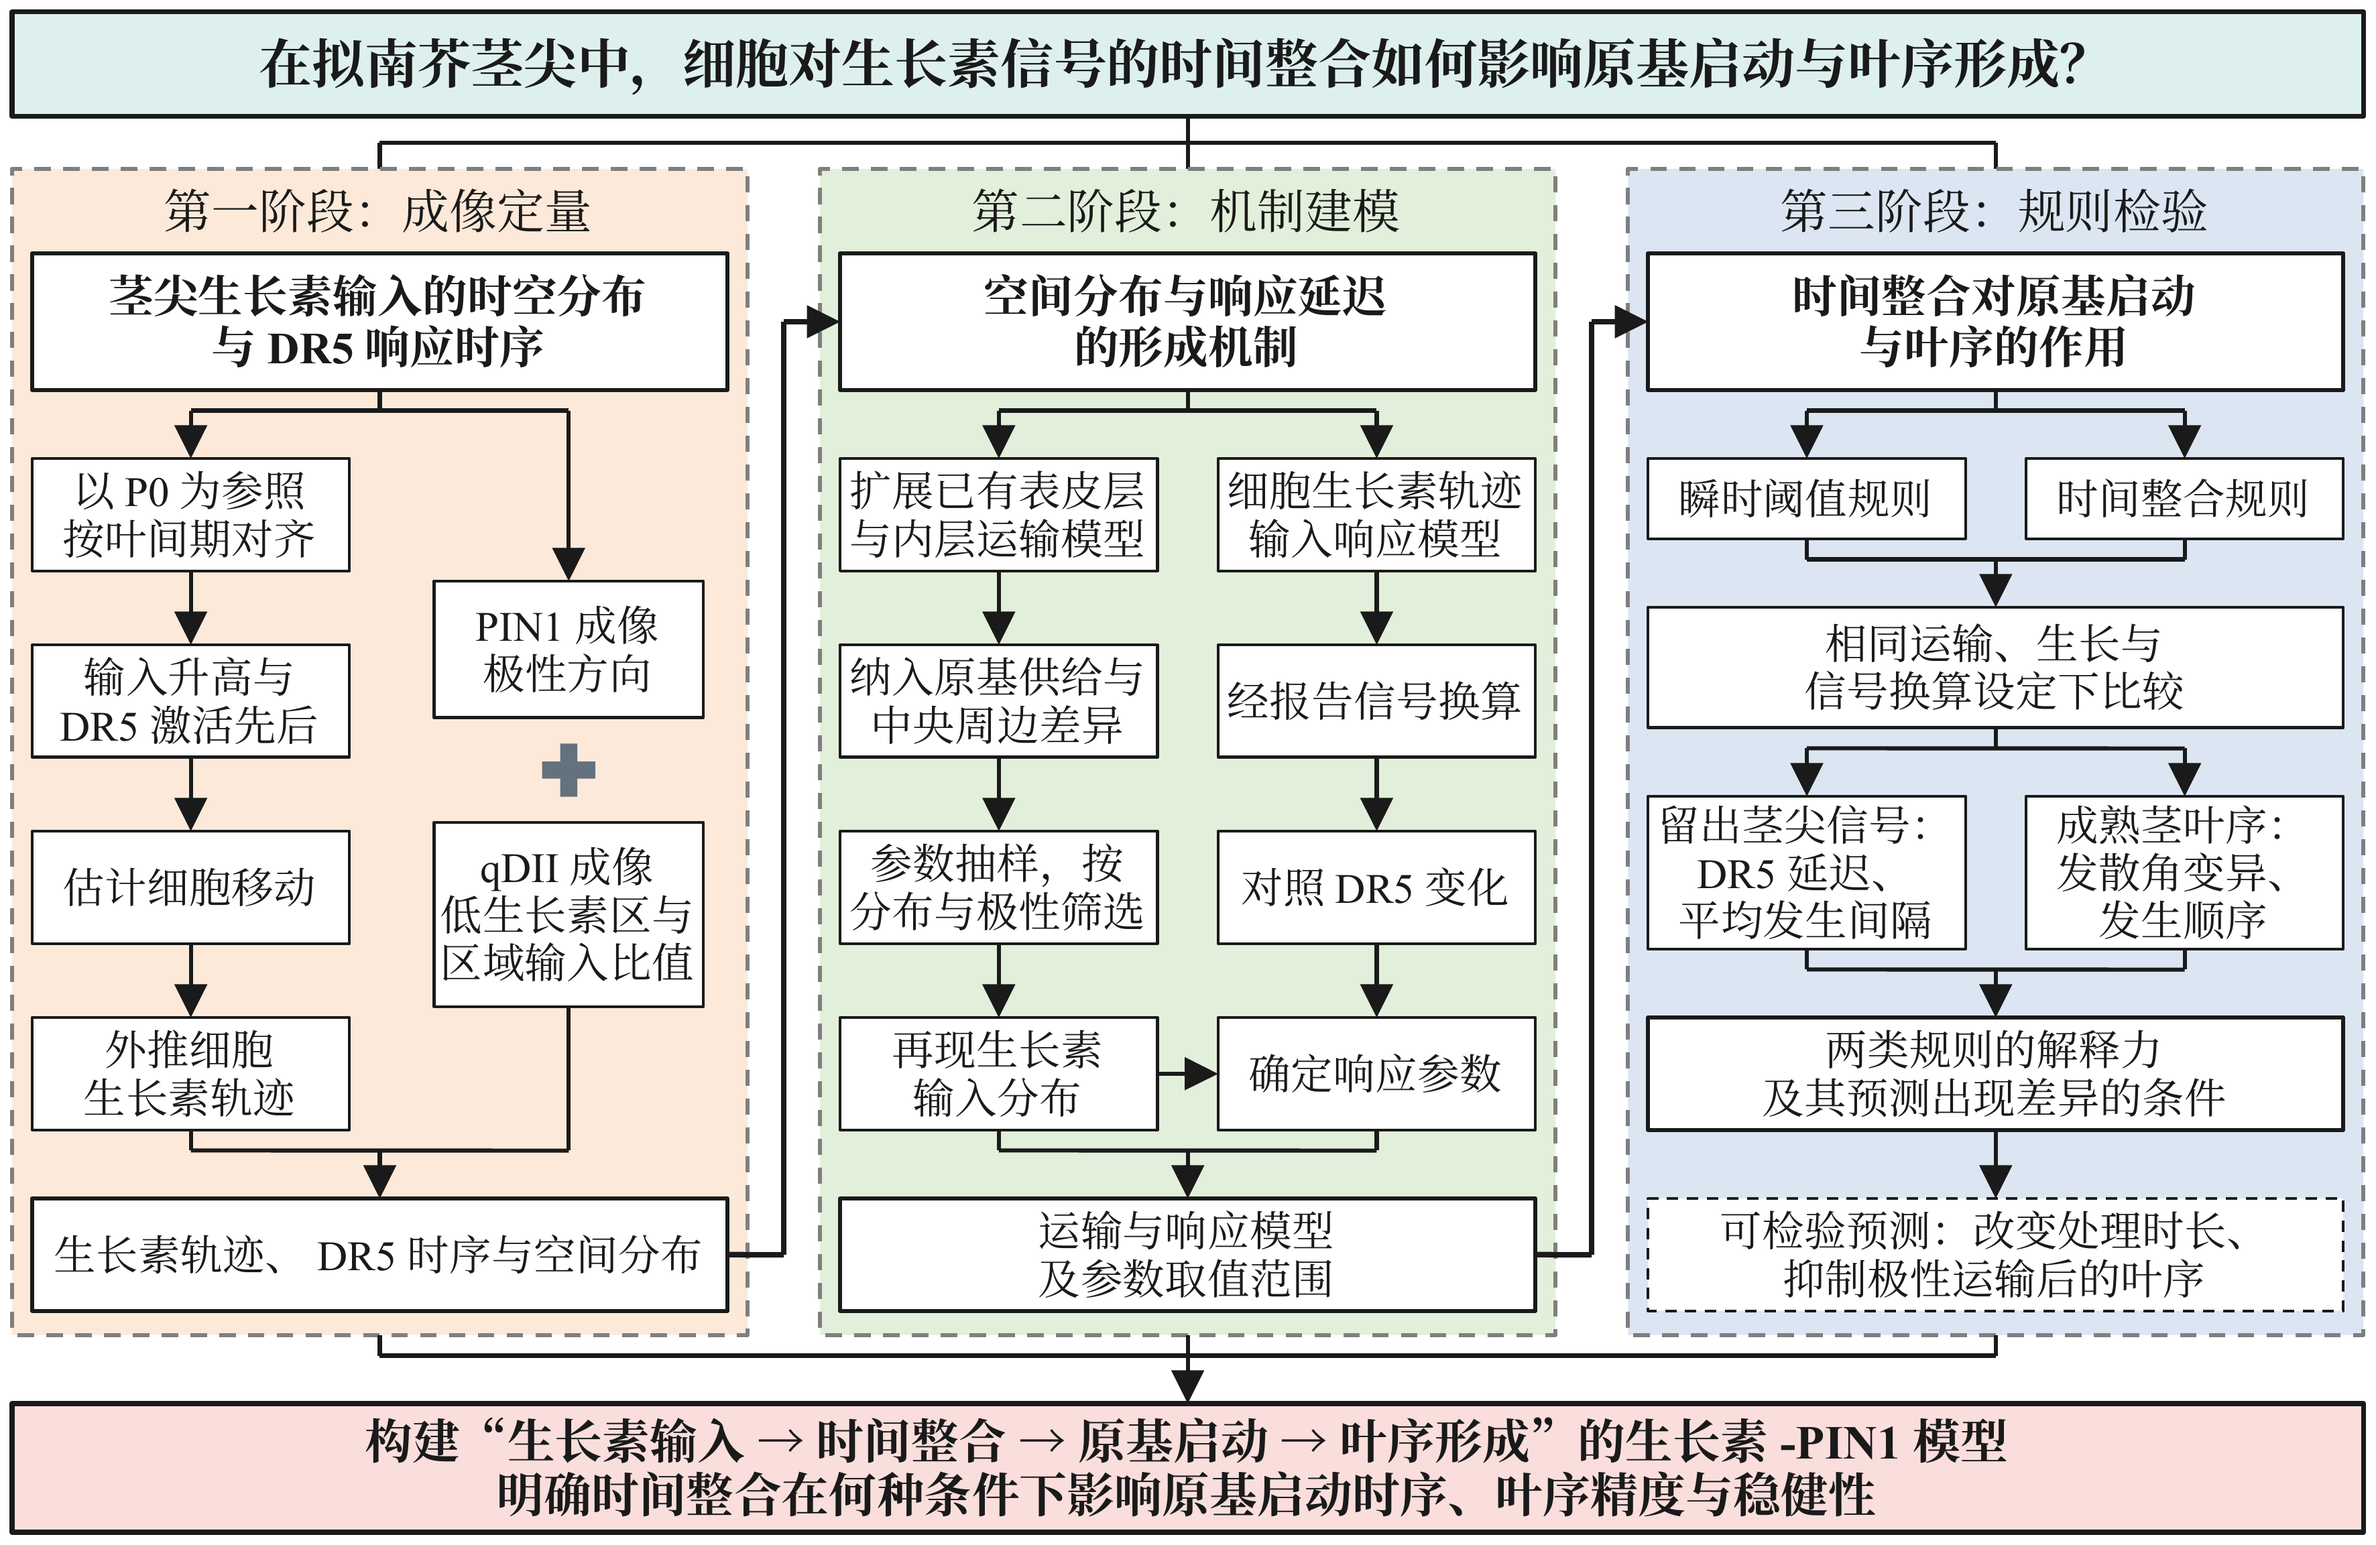
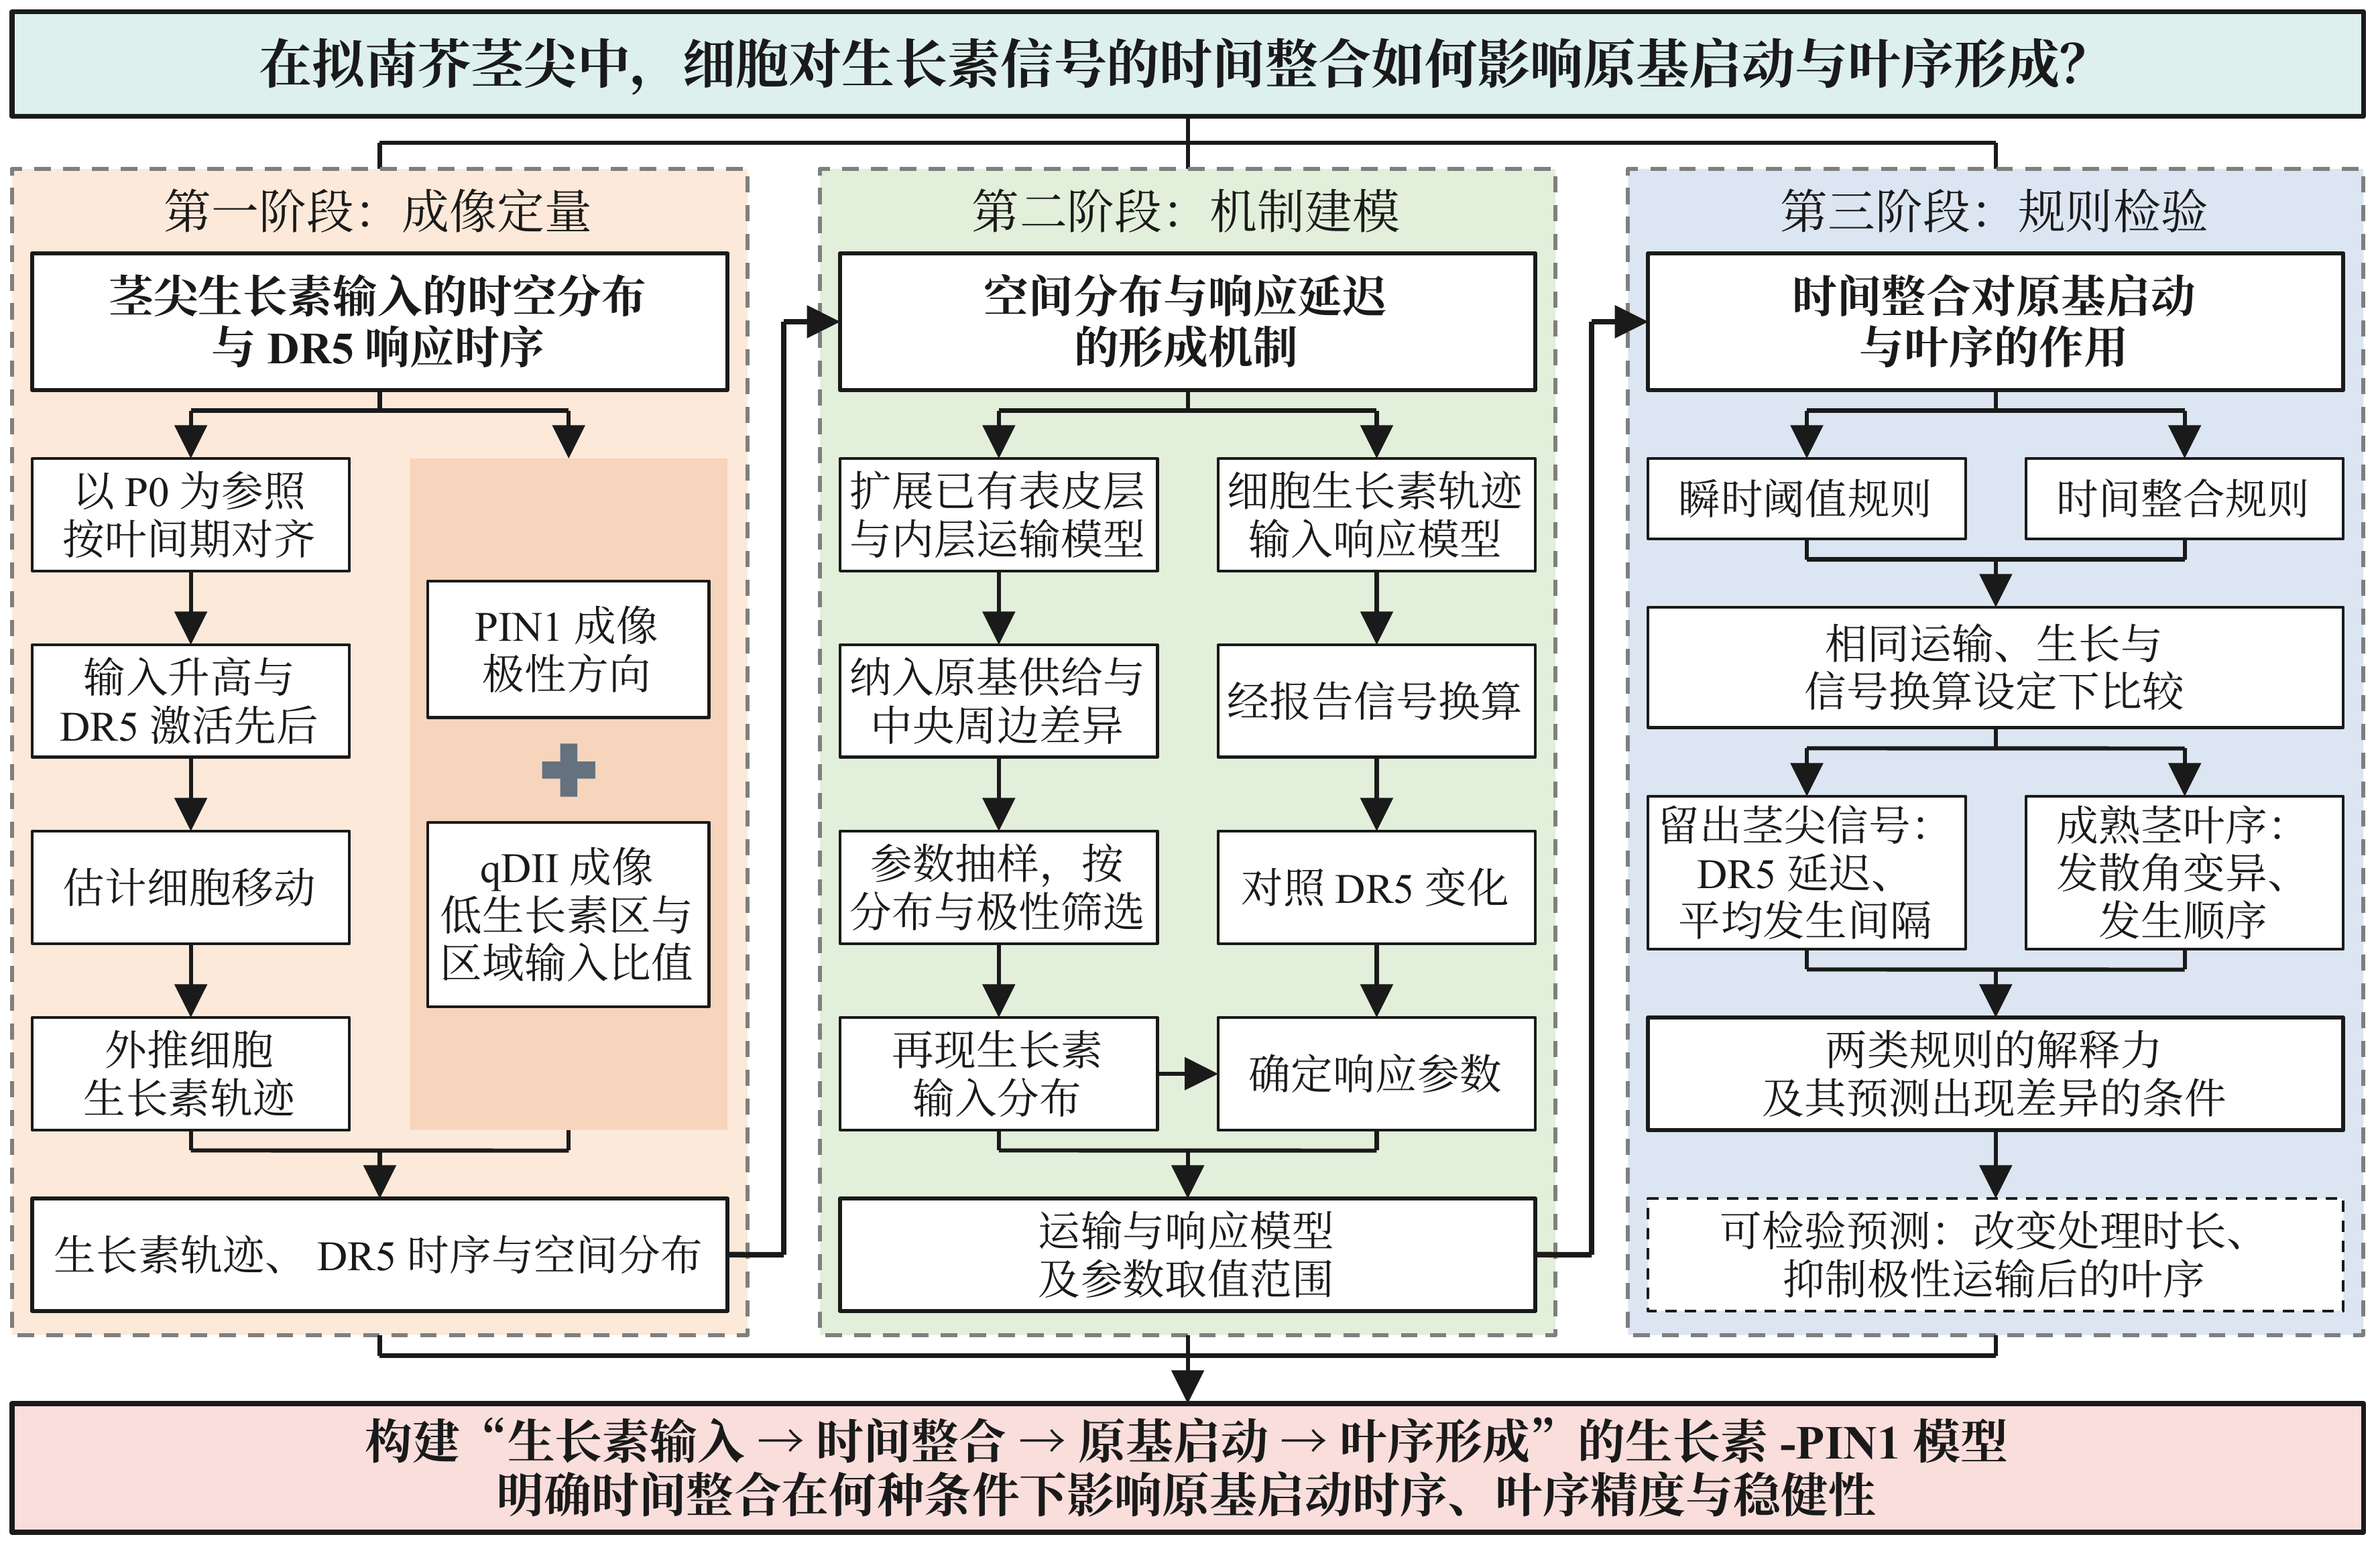
Fig. 2-1: imaging boxes on a tinted card the arrows meet
PIN1 and qDII boxes sit on a darker peach card spanning the track, so
the arrows join the card instead of the boxes.

Claude-Session: https://claude.ai/code/session_01BHCDdTyVHVBXyaT1pkArZu

Changed region(s): [[0.1552, 0.2811, 0.3104, 0.7497]]

diff --git a/figures/prior_work/ppt/roadmap.js b/figures/prior_work/ppt/roadmap.js
@@ -72,18 +72,20 @@ function frame(k, label, problem) {
 const ty = IN + HH + TG;                            // first row of track boxes (stages 1, 2)
 const AG = (OY - TG - ty - 4 * BH) / 3;             // arrow gap in a four-step track
 
-// stage 1: time course (left), two parallel imaging measurements joined by a plus (right)
+// stage 1: time course (left), two parallel imaging measurements on one card (right)
 {
   const f = frame(0, "第一阶段：成像定量", "茎尖生长素输入的时空分布\n与DR5响应时序");
   const b = chain(f.tx[0], ty, f.tw, ["以P0为参照\n按叶间期对齐", "输入升高与\nDR5激活先后", "估计细胞移动", "外推细胞\n生长素轨迹"], BH, AG);
-  const gx = f.tx[1] + 0.06, gw = f.tw - 0.12, P1 = 0.34, P2 = 0.46, PG = 0.26, gh = P1 + PG + P2;
-  const gy = ty + (b - ty - gh) / 2;                // two parallel measurements joined by a plus, centred in the column
-  split(f.cx, IN + HH, f.mids, [ty, gy], true);
+  // two parallel measurements on a darker card spanning the track; the arrows meet the card, not the boxes
+  split(f.cx, IN + HH, f.mids, ty, true);
+  box(f.tx[1], ty, f.tw, b - ty, "", { fill: "F6D5BC", noline: true, name: "imaging_card" });
+  const gx = f.tx[1] + 0.045, gw = f.tw - 0.09, P1 = 0.34, P2 = 0.46, PG = 0.26, gh = P1 + PG + P2;
+  const gy = ty + (b - ty - gh) / 2;
   box(gx, gy, gw, P1, "PIN1成像\n极性方向");
   s.addShape(pres.ShapeType.mathPlus, { x: gx + gw / 2 - 0.09, y: gy + P1 + PG / 2 - 0.09, w: 0.18, h: 0.18,
     fill: { color: PLUS }, line: { type: "none" }, objectName: "parallel_plus" });
   box(gx, gy + P1 + PG, gw, P2, "qDII成像\n低生长素区与\n区域输入比值");
-  merge(f.mids, [b, gy + gh], f.cx, OY);
+  merge(f.mids, [b, b], f.cx, OY);
   box(f.hx, OY, f.hw, RH, "生长素轨迹、DR5时序与空间分布", { lw: 0.75, name: "result_0" });
 }
 
